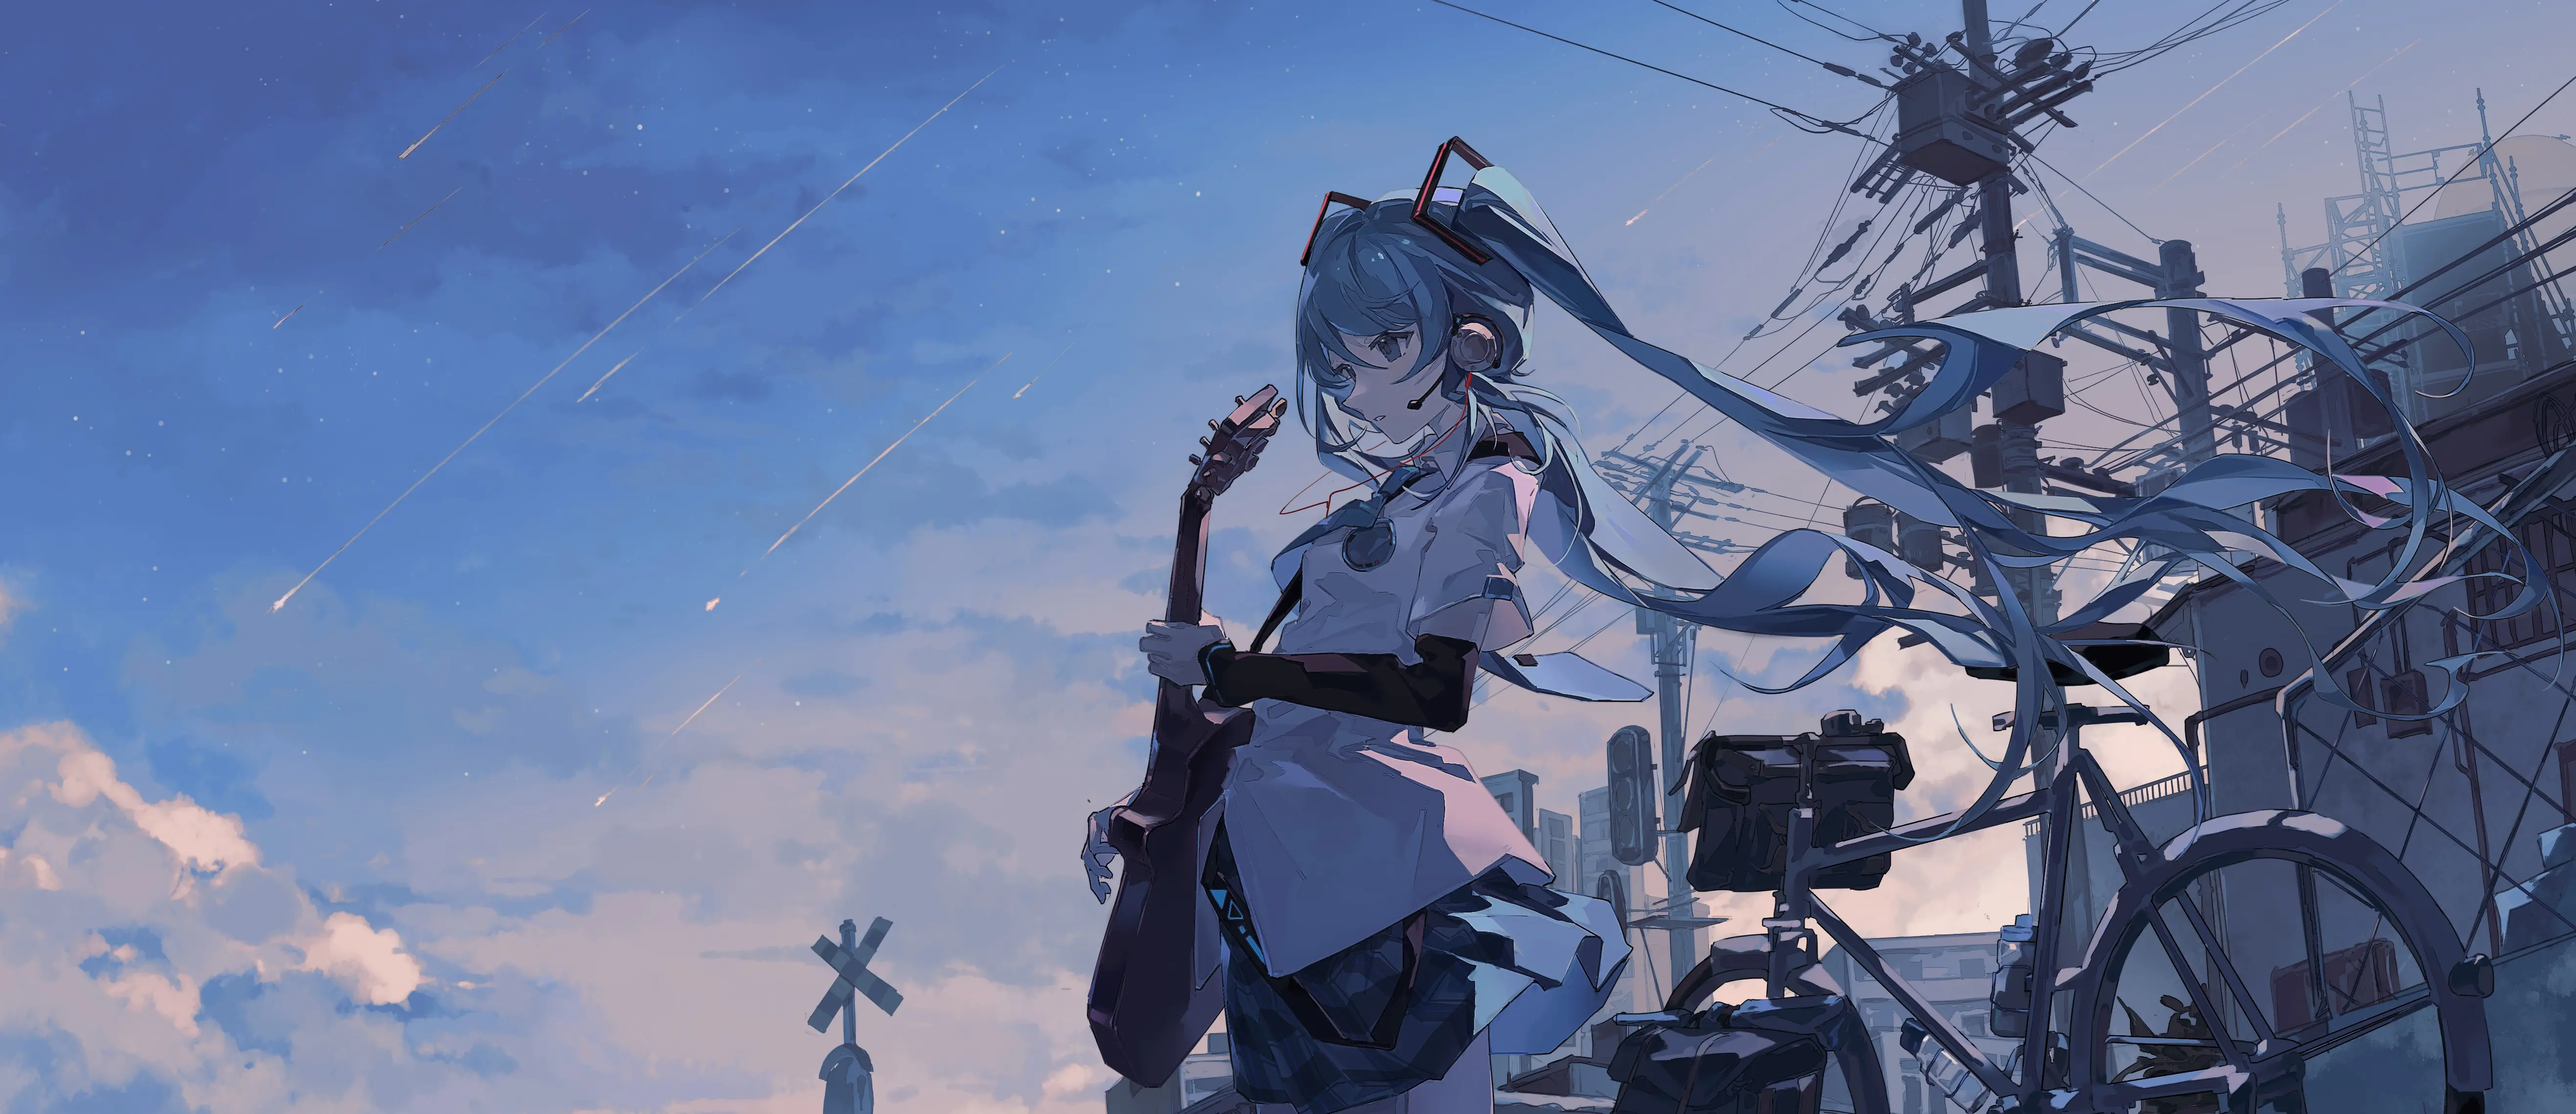
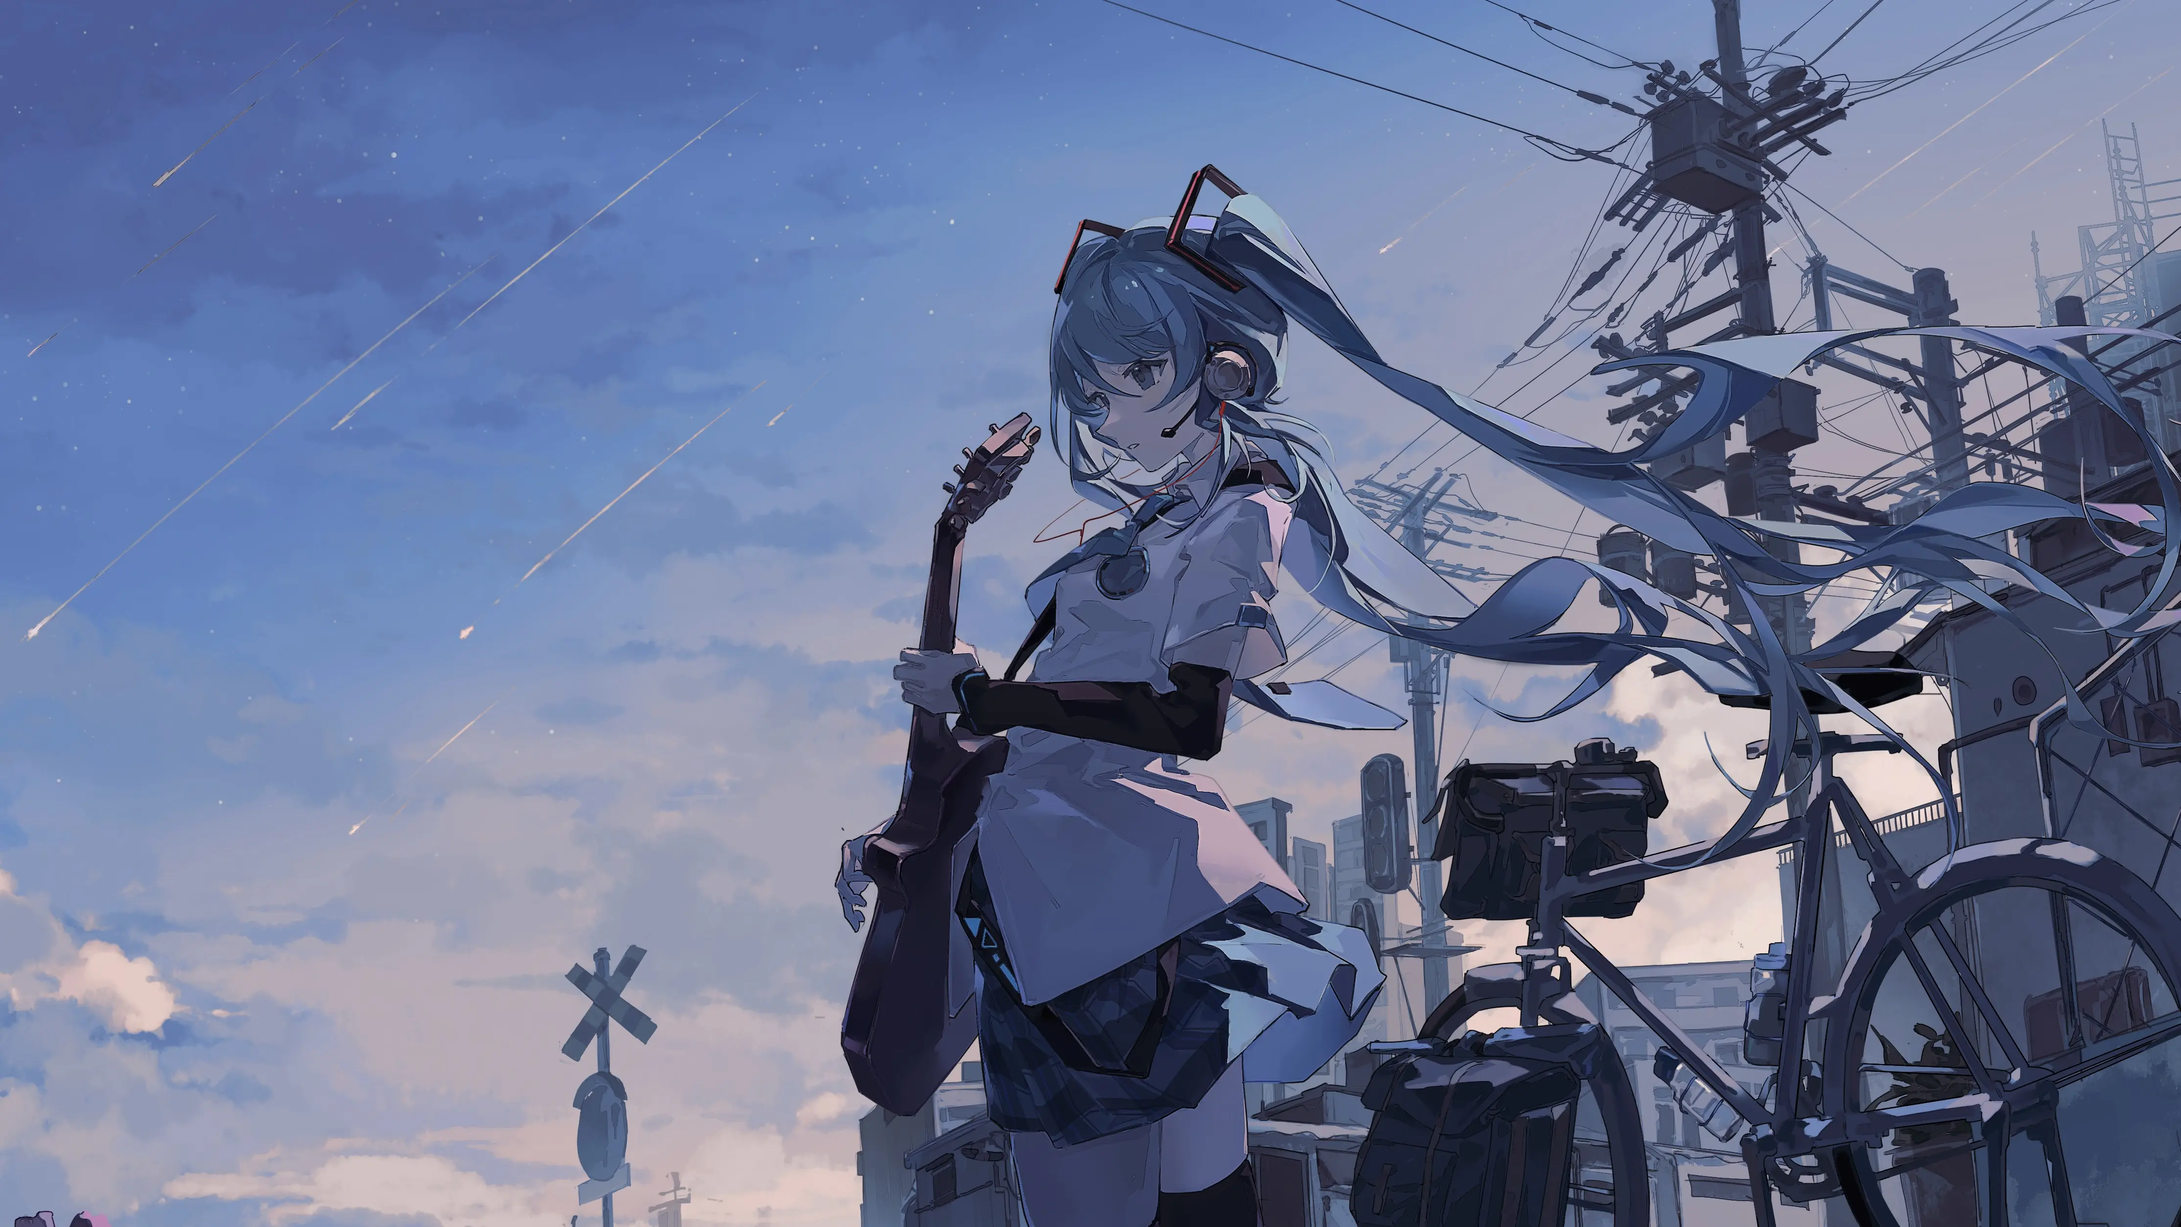
Deployed 663c60d with MkDocs version: 1.6.1

diff --git a/index.html b/index.html
@@ -1014,7 +1014,7 @@
 <article class="md-post md-post--excerpt">
 		<!-- Hero image -->
 		
-		<div class="mdx-hero__image" style="overflow: hidden; aspect-ratio: 21 / 9;">
+		<div class="mdx-hero__image" style="overflow: hidden; aspect-ratio: 16 / 9; margin-bottom: 10px;">
 			<img
 				src="https://liulifox.top/assets/posts/Connecting.webp"
 				alt=""
@@ -1123,7 +1123,7 @@
 <article class="md-post md-post--excerpt">
 		<!-- Hero image -->
 		
-		<div class="mdx-hero__image" style="overflow: hidden; aspect-ratio: 21 / 9;">
+		<div class="mdx-hero__image" style="overflow: hidden; aspect-ratio: 16 / 9; margin-bottom: 10px;">
 			<img
 				src="https://liulifox.top/assets/posts/案外そんなフューチャー.webp"
 				alt=""
@@ -1232,7 +1232,7 @@
 <article class="md-post md-post--excerpt">
 		<!-- Hero image -->
 		
-		<div class="mdx-hero__image" style="overflow: hidden; aspect-ratio: 21 / 9;">
+		<div class="mdx-hero__image" style="overflow: hidden; aspect-ratio: 16 / 9; margin-bottom: 10px;">
 			<img
 				src="https://liulifox.top/assets/posts/graduate.webp"
 				alt=""

diff --git a/category/生活/index.html b/category/生活/index.html
@@ -1066,7 +1066,7 @@
 <article class="md-post md-post--excerpt">
 		<!-- Hero image -->
 		
-		<div class="mdx-hero__image" style="overflow: hidden; aspect-ratio: 21 / 9;">
+		<div class="mdx-hero__image" style="overflow: hidden; aspect-ratio: 16 / 9; margin-bottom: 10px;">
 			<img
 				src="https://liulifox.top/assets/posts/Connecting.webp"
 				alt=""
@@ -1175,7 +1175,7 @@
 <article class="md-post md-post--excerpt">
 		<!-- Hero image -->
 		
-		<div class="mdx-hero__image" style="overflow: hidden; aspect-ratio: 21 / 9;">
+		<div class="mdx-hero__image" style="overflow: hidden; aspect-ratio: 16 / 9; margin-bottom: 10px;">
 			<img
 				src="https://liulifox.top/assets/posts/graduate.webp"
 				alt=""

diff --git a/archive/2024/12/index.html b/archive/2024/12/index.html
@@ -1048,7 +1048,7 @@
 <article class="md-post md-post--excerpt">
 		<!-- Hero image -->
 		
-		<div class="mdx-hero__image" style="overflow: hidden; aspect-ratio: 21 / 9;">
+		<div class="mdx-hero__image" style="overflow: hidden; aspect-ratio: 16 / 9; margin-bottom: 10px;">
 			<img
 				src="https://liulifox.top/assets/posts/案外そんなフューチャー.webp"
 				alt=""

diff --git a/category/tech/index.html b/category/tech/index.html
@@ -1048,7 +1048,7 @@
 <article class="md-post md-post--excerpt">
 		<!-- Hero image -->
 		
-		<div class="mdx-hero__image" style="overflow: hidden; aspect-ratio: 21 / 9;">
+		<div class="mdx-hero__image" style="overflow: hidden; aspect-ratio: 16 / 9; margin-bottom: 10px;">
 			<img
 				src="https://liulifox.top/assets/posts/案外そんなフューチャー.webp"
 				alt=""

diff --git a/2024/12/22/homebrew-formula-二三事/index.html b/2024/12/22/homebrew-formula-二三事/index.html
@@ -1149,7 +1149,7 @@
 
 <!-- Hero image -->
 
-<div class="mdx-hero__image" style="overflow: hidden; aspect-ratio: 21 / 9; margin-bottom: 20px;">
+<div class="mdx-hero__image" style="overflow: hidden; aspect-ratio: 16 / 9; margin-bottom: 20px;">
     <img
         src="https://liulifox.top/assets/posts/案外そんなフューチャー.webp"
         alt=""

diff --git a/archive/2025/01/index.html b/archive/2025/01/index.html
@@ -1048,7 +1048,7 @@
 <article class="md-post md-post--excerpt">
 		<!-- Hero image -->
 		
-		<div class="mdx-hero__image" style="overflow: hidden; aspect-ratio: 21 / 9;">
+		<div class="mdx-hero__image" style="overflow: hidden; aspect-ratio: 16 / 9; margin-bottom: 10px;">
 			<img
 				src="https://liulifox.top/assets/posts/Connecting.webp"
 				alt=""

diff --git a/archive/2024/07/index.html b/archive/2024/07/index.html
@@ -1048,7 +1048,7 @@
 <article class="md-post md-post--excerpt">
 		<!-- Hero image -->
 		
-		<div class="mdx-hero__image" style="overflow: hidden; aspect-ratio: 21 / 9;">
+		<div class="mdx-hero__image" style="overflow: hidden; aspect-ratio: 16 / 9; margin-bottom: 10px;">
 			<img
 				src="https://liulifox.top/assets/posts/graduate.webp"
 				alt=""

diff --git a/2025/01/09/几件小事/index.html b/2025/01/09/几件小事/index.html
@@ -1098,7 +1098,7 @@
 
 <!-- Hero image -->
 
-<div class="mdx-hero__image" style="overflow: hidden; aspect-ratio: 21 / 9; margin-bottom: 20px;">
+<div class="mdx-hero__image" style="overflow: hidden; aspect-ratio: 16 / 9; margin-bottom: 20px;">
     <img
         src="https://liulifox.top/assets/posts/Connecting.webp"
         alt=""

diff --git a/2024/07/26/隧道的终点人生的下一站/index.html b/2024/07/26/隧道的终点人生的下一站/index.html
@@ -1070,7 +1070,7 @@
 
 <!-- Hero image -->
 
-<div class="mdx-hero__image" style="overflow: hidden; aspect-ratio: 21 / 9; margin-bottom: 20px;">
+<div class="mdx-hero__image" style="overflow: hidden; aspect-ratio: 16 / 9; margin-bottom: 20px;">
     <img
         src="https://liulifox.top/assets/posts/graduate.webp"
         alt=""
